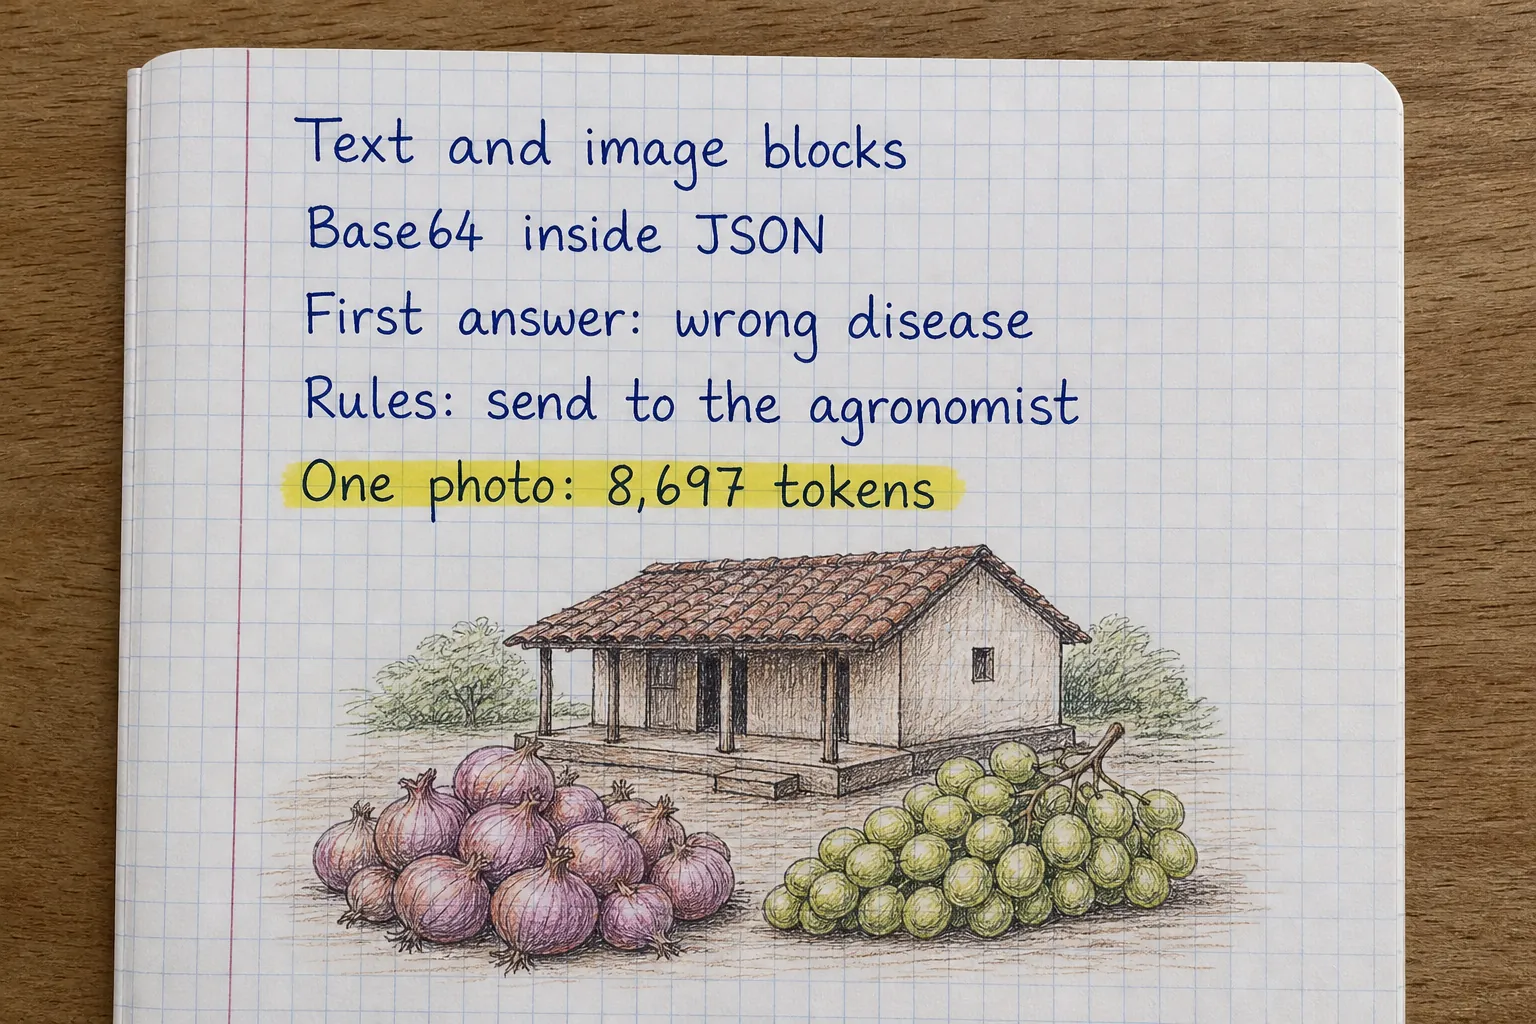
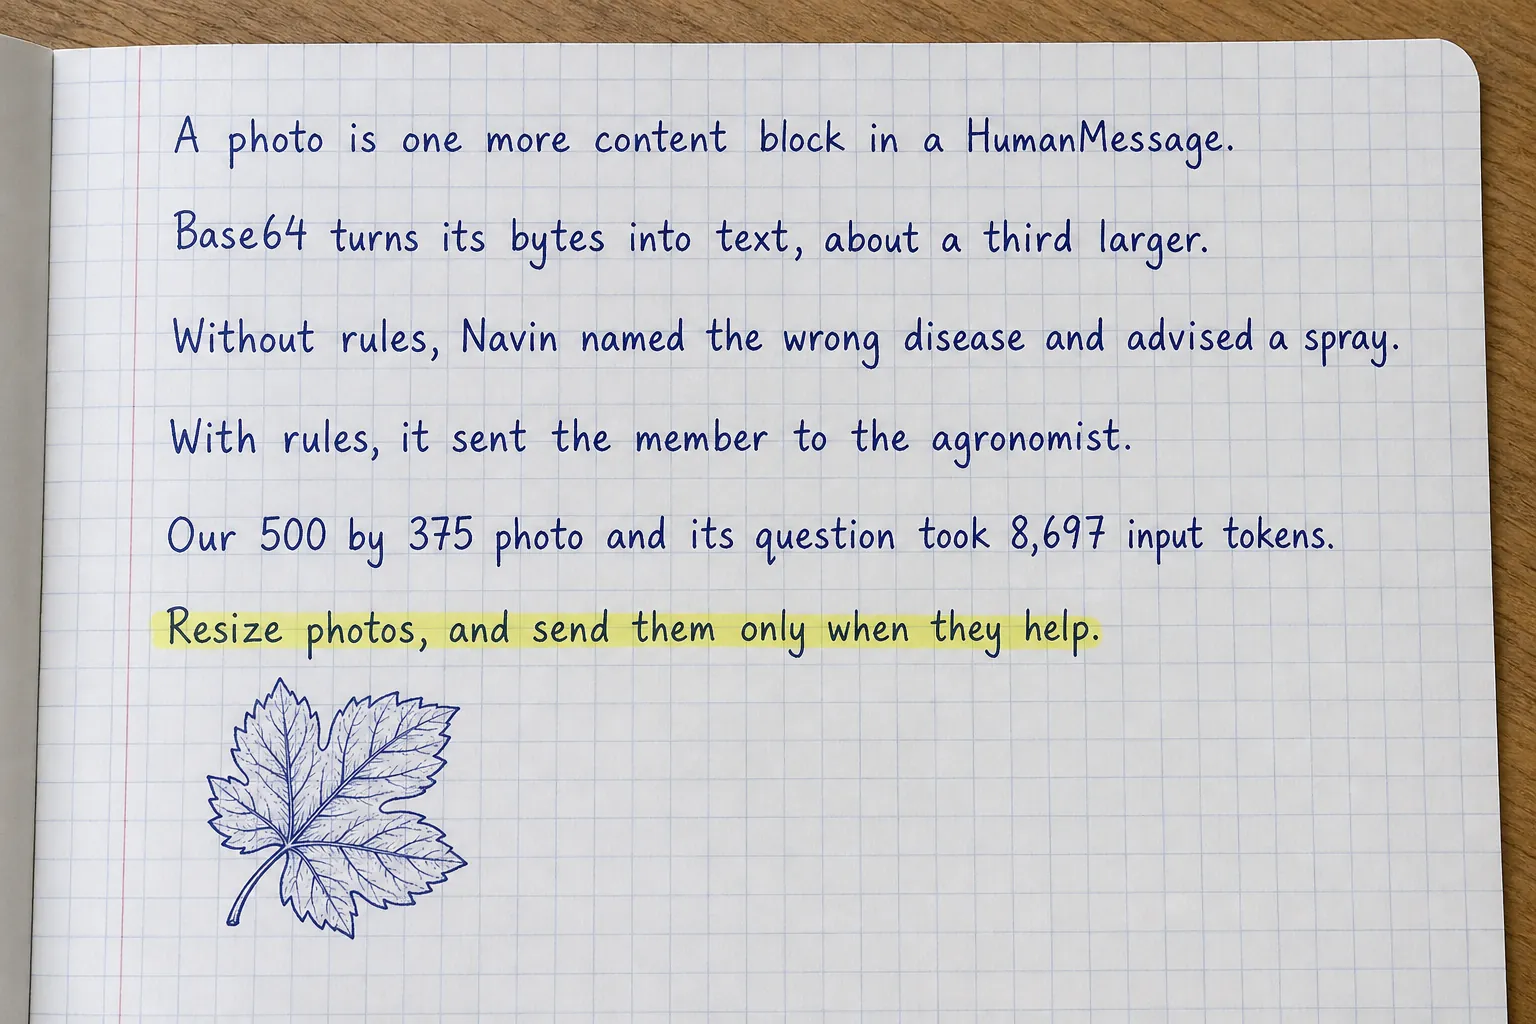
LangChain chapter 14 rewritten: plain and fuller, both leaf reports reproduced live

diff --git a/labs/langchain/chapters/14-images.md b/labs/langchain/chapters/14-images.md
@@ -2,8 +2,8 @@
 "There are white patches under my grape leaves. What is it?" is hard to answer in words, and members are farmers, not
 plant scientists. Most of them carry a phone with a camera. Sending a photo is easier than describing one.
 
-gpt-4o-mini, the model behind Navin, reads images as well as text. In LangChain an image is one more **content
-block** inside a `HumanMessage`, next to the text. And combined with chapter 13's structured output, a photo can come
+gpt-4o-mini, the model behind Navin, reads images as well as text. In LangChain an image is one more **content block** (one typed piece of a message: some text, an image, a file) inside
+a `HumanMessage`, next to the text. And combined with chapter 13's structured output, a photo can come
 back as a checked report.
 
 This chapter is also a lesson in responsibility. A wrong answer about a sick vine can cost a season's harvest, and the
@@ -34,16 +34,23 @@ about a third larger.
 :::
 
 :::step{type=task task=image_message title="Your turn: a message with a photo" file="14-images/leaf.py" line="22-27"}
-Finish `image_message(question, image, mime_type)`: return a `HumanMessage` whose content is a text block with the
-question and an image block with `base64.b64encode(image).decode()` and the `mime_type`.
+Finish `image_message(question, image, mime_type)`. `image` is the photo's raw bytes.
+
+1. Return a `HumanMessage` whose `content` is a list of two blocks.
+2. First `{"type": "text", "text": question}`.
+3. Then `{"type": "image", "base64": base64.b64encode(image).decode(), "mime_type": mime_type}`. `b64encode` gives
+   bytes; `.decode()` turns them into the text JSON needs. The **MIME type** names the file format (`image/jpeg`).
+
+The usual slip: forgetting `.decode()`, which sends `b'...'` instead of plain text.
 
 Press **Check**.
 :::
 
 :::step{type=history title="Models that can see, and a disease from overseas"}
 :::before{title="Text only"}
-Until 2023 the big language models read only text. Image recognition was a separate field, with separate models that
-could label a picture but not talk about it.
+Until 2023 the most widely used language models read only text (research models such as DeepMind's Flamingo, 2022,
+could already talk about images). Image recognition was mostly a separate field, with separate models that could label
+a picture but not talk about it.
 :::
 
 In **January 2021** OpenAI's **CLIP** learned to connect images and text from 400 million captioned pictures. In
@@ -86,8 +93,11 @@ Why such a strict rule? Because of what happened when we first ran this chapter 
 :::
 
 :::step{type=task task=leaf_report title="Your turn: the leaf report" file="14-images/leaf.py" line="30-34"}
-Finish `leaf_report(question, image)`: call `model.with_structured_output(LeafReport).invoke([...])` with
-`SystemMessage(RULES)` and your `image_message(question, image)`.
+Finish `leaf_report(question, image)`: return
+`model.with_structured_output(LeafReport).invoke([SystemMessage(RULES), image_message(question, image)])`.
+
+The usual slip: leaving out `SystemMessage(RULES)`. The check looks for `RULES` as the system message, because
+without it the real model's next step was spraying advice (see below).
 
 ```bash run
 cd /workspace/14-images && python main.py
@@ -98,8 +108,8 @@ Press **Check**.
 
 :::step{type=try title="Careful: a confident wrong diagnosis"}
 `leaf.jpg` is a real photo of grape **downy mildew**: the white, downy growth on the underside of a leaf (photo by Jerzy
-Opioła, CC BY-SA 4.0; credit in `leaf-credit.txt`). When we first wrote this chapter, `leaf_report` sent the photo
-**without** the rules. The real answer:
+Opioła, CC BY-SA 4.0; credit in `leaf-credit.txt`). When we first wrote this chapter, `leaf_report` sent the photo **without** the rules. The real answer (we ran it twice
+more on 25 November and got the same advice both times):
 
 ```text
 $ python main.py
@@ -123,7 +133,7 @@ confidence  medium
 next_step   Please show this leaf to Mrs. Kulkarni for a detailed analysis.
 ```
 
-Vaguer, and much safer: it says what it can see and sends the member to a person who can diagnose. For an assistant
+We ran it again with the rules on 25 November and got exactly this. Vaguer, and much safer: it says what it can see and sends the member to a person who can diagnose. For an assistant
 whose words can cost a harvest, that is the right trade.
 :::
 
@@ -135,8 +145,10 @@ $ lab requests --last
 2026-11-23 13:02:00 UTC  ai-chat -> openai/gpt-4o-mini  8697 in, 46 out
 ```
 
-**8,697 input tokens** for one 500 by 375 photo and two short sentences, against about 200 for a text question. With
-gpt-4o-mini, images are counted at a high token rate, so this one photo cost about $0.0013, as much as 30 text answers.
+**8,697 input tokens** for one 500 by 375 photo and two short sentences, against about 220 for a text question in
+chapter 9 (we got 8,697 again on 25 November). OpenAI counts images for gpt-4o-mini at a high token rate: a fixed
+part plus a part for each **tile** (a square piece of the image); this small photo fits in one tile. So this one photo
+cost about $0.0013 (8,697 x $0.15 per million), as much as about 30 text answers from chapter 9.
 Photos are worth it when they replace a long, uncertain description; resize them before sending (this one is 500
 pixels wide), and never send them by default.
 :::
@@ -198,7 +210,7 @@ You can now:
 
 Next, chapter 15: memory. Navin remembers what each member said earlier.
 
-:::photo{src="/lesson-images/langchain/lc-14-notes.webp" alt="Handwritten notes about images in the conversation: Text and image blocks; Base64 inside JSON; First answer: wrong disease; Rules: send to the agronomist; One photo: 8,697 tokens" ai="true"}
+:::photo{src="/lesson-images/langchain/lc-14-notes.webp" alt="Handwritten notes about images: A photo is one more content block in a HumanMessage. Base64 turns its bytes into text, about a third larger. Without rules, Navin named the wrong disease and advised a spray. With rules, it sent the member to the agronomist. Our 500 by 375 photo and its question took 8,697 input tokens. Resize photos, and send them only when they help." ai="true"}
 One page of notes for this chapter.
 :::
 :::

diff --git a/CHANGELOG.md b/CHANGELOG.md
@@ -1,5 +1,15 @@
 # Changelog
 
+## 25 November: LangChain chapter 14 rewritten (easy, a little detailed, checked)
+
+- Content block, MIME type and tile are explained where they first appear; both tasks list their steps and the usual
+  slips (the leaf report's slip now matches what the check tests).
+- Checked through the lab gateway: with the rules, the same report word for word; without the rules, twice the same
+  wrong "powdery mildew" and "Consider applying a fungicide" (the chapter's warning is real); 8,697 tokens in and 46 out
+  again; the photo is 500 by 375; the credit file is right; $0.0013 is about 31 text answers. Corrected: "until 2023
+  the big language models read only text" now mentions research models like Flamingo (2022); the notes say the 8,697
+  tokens are the photo and its question. A new notes page.
+
 ## 25 November: LangChain chapter 13 rewritten (easy, a little detailed, checked)
 
 - Pydantic is explained where it first appears; both tasks list their steps and the usual slips.

diff --git a/REWRITE_LIST.md b/REWRITE_LIST.md
@@ -11,7 +11,7 @@ Status: **1 of 23 labs done** (13 of 319 chapters).
 | # | Lab | Title | Chapters | Status | Done on |
 |---|---|---|---|---|---|
 | 1 | rag-vector-databases | RAG and vector databases | 13 | done (13 of 13) | 25 Nov |
-| 2 | langchain | LangChain | 27 | in progress (13 of 27) | |
+| 2 | langchain | LangChain | 27 | in progress (14 of 27) | |
 | 3 | langchain4j | LangChain4j | 30 | not started | |
 | 4 | langgraph | LangGraph | 24 | not started | |
 | 5 | spring-ai | Spring AI | 20 | not started | |
